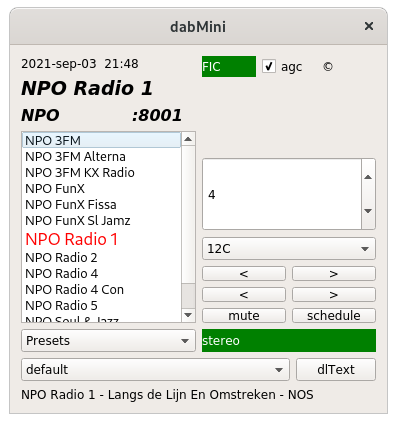
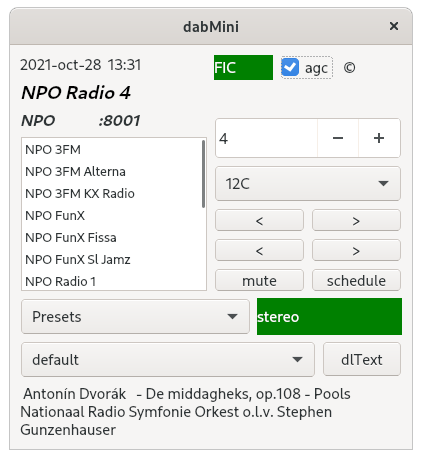
added fib option 0/7

diff --git a/dab-maxi/radio.cpp b/dab-maxi/radio.cpp
@@ -269,6 +269,7 @@ uint8_t	dabBand;
 	my_dabProcessor		= nullptr;
 	isSynced		= false;
 	stereoSetting		= false;
+	serviceCount		= -1;
 //
 //	"globals" is introduced to reduce the number of parameters
 //	for the dabProcessor
@@ -573,13 +574,13 @@ uint8_t	dabBand;
 //	timer for scanning
 	channelTimer. setSingleShot (true);
 	channelTimer. setInterval (10000);
-	connect (&channelTimer, SIGNAL (timeout (void)),
-	         this, SLOT (channel_timeOut (void)));
+	connect (&channelTimer, SIGNAL (timeout ()),
+	         this, SLOT (channel_timeOut ()));
 //
 //	presetTimer
 	presetTimer. setSingleShot (true);
-	connect (&presetTimer, SIGNAL (timeout (void)),
-	            this, SLOT (setPresetStation (void)));
+	connect (&presetTimer, SIGNAL (timeout ()),
+	         this, SLOT (setPresetStation ()));
 //
 //	timer for muting
 	muteTimer. setSingleShot (true);
@@ -867,6 +868,8 @@ int	serviceOrder;
 	}
 
 	ensembleDisplay -> setModel (&model);
+	if (serviceCount == model.rowCount ())
+	   setPresetStation ();
 }
 //
 //	The ensembleId is written as hexadecimal, however, the 
@@ -2677,7 +2680,8 @@ int	switchDelay;
 	   return;
 	}
 
-	nextService. valid = true;
+	nextService. valid		= true;
+	nextService. channel		= channel;
 	nextService. serviceName        = service;
 	nextService. SId                = 0;
 	nextService. SCIds              = 0;
@@ -3059,15 +3063,22 @@ void	RadioInterface::setPresetStation () {
 	if (!running. load ())
 	   return;
 
+	stopScanning (false);
+	fprintf (stderr, "setPresetStation valid ? %d\n", nextService. valid);
+	if (!nextService. valid)
+	   return;
+
+	fprintf (stderr, "setPresetStation channels %s %s\n",
+	                  nextService. channel. toLatin1 (). data (),
+	                  channelSelector -> currentText (). toLatin1 (). data ());
+	if (nextService. channel != channelSelector -> currentText ())
+	   return;
+
 	if (ensembleId -> text () == QString ("")) {
 	   QMessageBox::warning (this, tr ("Warning"),
 	                          tr ("Oops, ensemble not yet recognized\nselect service manually\n"));
 	   return;
 	}
-
-	stopScanning (false);
-	if (!nextService. valid)
-	   return;
 
 	QString presetName	= nextService. serviceName;
 	for (const auto& service: serviceList) {
@@ -3102,6 +3113,7 @@ void	RadioInterface::setPresetStation () {
 void	RadioInterface::startChannel (const QString &channel) {
 int	tunedFrequency	=
 	         theBand. Frequency (channel);
+	serviceCount		= 0;
 	frequencyDisplay	-> display (tunedFrequency / 1000000.0);
 	dabSettings		-> setValue ("channel", channel);
 	inputDevice		-> resetBuffer ();
@@ -4207,4 +4219,7 @@ void	RadioInterface::handle_hideButton	() {
 	}
 }
 
+void	RadioInterface::nrServices	(int n) {
+	serviceCount = n;
+}
 

diff --git a/src/ofdm/fib-decoder.cpp b/src/ofdm/fib-decoder.cpp
@@ -52,6 +52,8 @@
 	         myRadioInterface, SLOT (startAnnouncement (const QString &, int)));
 	connect (this, SIGNAL (stopAnnouncement (const QString &, int)),
 	         myRadioInterface, SLOT (stopAnnouncement (const QString &, int)));
+	connect (this, SIGNAL (nrServices (int)),
+	         myRadioInterface, SLOT (nrServices (int)));
 
 	currentConfig	= new dabConfig();
 	nextConfig	= new dabConfig();
@@ -551,16 +553,14 @@ uint8_t CN_bit          = getBits_1 (d, 8 + 0);
 uint8_t OE_bit          = getBits_1 (d, 8 + 1);
 uint8_t PD_bit          = getBits_1 (d, 8 + 2);
 
-int     nrServices      = getBits_6 (d, used * 8);
+int     serviceCount      = getBits_6 (d, used * 8);
 int     counter         = getBits   (d, used * 8 + 6, 10);
 
 	(void)Length;
 	(void)CN_bit; (void)OE_bit; (void)PD_bit;
-#if 0
-        fprintf (stderr, "nrServices %d, count %d\n",
-                          nrServices, counter);
-#endif
-	(void)nrServices; (void)counter;
+	if (CN_bit == 0)	// only current configuration for now
+	   nrServices (serviceCount);
+	(void)counter;
 }
 
 // FIG0/8:  Service Component Global Definition (6.3.5)

diff --git a/dab-maxi/radio.h b/dab-maxi/radio.h
@@ -230,6 +230,7 @@ private:
 	void			connectGUI		();
 	void			disconnectGUI		();
 
+	int			serviceCount;
 	struct theTime		localTime;
 	struct theTime		UTC;
 	QString			convertTime		(int, int, int, int, int);
@@ -338,6 +339,7 @@ public slots:
 	void			epgTimer_timeOut	();
 #endif
 	void			switchVisibility	(QWidget *);
+	void			nrServices		(int);
 
 //	Somehow, these must be connected to the GUI
 private slots:

diff --git a/dab-mini/radio.h b/dab-mini/radio.h
@@ -196,6 +196,9 @@ public slots:
 	void			newFrame		(int);
 	void			show_clockError		(int);
 	void			scheduler_timeOut	(const QString &);
+	void			nrServices		(int);
+	void			showCorrelation		(int, int,
+	                                                   QVector<int>);
 
 //	Somehow, these must be connected to the GUI
 private slots:

diff --git a/dab-mini/radio.cpp b/dab-mini/radio.cpp
@@ -1489,3 +1489,13 @@ void	RadioInterface::scheduled_dlTextDumping () {
 	   return;
 	dlTextButton		-> setText ("writing");
 }
+
+void	RadioInterface::nrServices	(int nr) {
+	(void)nr;	// todo
+}
+
+void	RadioInterface::showCorrelation (int x1, int x2, QVector<int> x3) {
+	(void)x1; (void)x2; (void)x3;
+}
+
+

diff --git a/includes/ofdm/fib-decoder.h b/includes/ofdm/fib-decoder.h
@@ -170,6 +170,7 @@ signals:
 	void		changeinConfiguration	();
 	void		startAnnouncement	(const QString &, int);
 	void		stopAnnouncement	(const QString &, int);
+	void		nrServices		(int);
 };
 
 #endif

diff --git a/README.md b/README.md
@@ -14,16 +14,16 @@ Table of Contents
 * [Widgets and scopes](#widgets-and-scopes-for-qt-dab)
 * [dabMini and duoreceiver](#dabMini-and-duoreceiver)
 * [Documentation](#documentation)
-* [Presets](#presets-for-qt-dab)
+* [Presets](#presets-for-qt-dab-and-dab-mini)
+* [Saving dain settings](#saving-gain-settings)-
 * [Colors](#colors-for-qt-dab)
-* [Comment on some config settings](#Configuration-settings)
+* [configuration settings](#Configuration-settings)
 * [Scanning and the skip table](#scanning-and-the-skip-table)
 * [Saving synamic label texts](#Saving-dynamic-label-texts)
 * [Scheduling option](#Scheduling-option)
 * [Obsolete properties](#Obsolete-properties)
 * [Installation on Windows](#installation-on-windows)
 * [Installation on Linux x64](#installation-on-linux-x64)
-* [Configuring](#configuring)
 * [Interfacing to another device](#Interfacing-to-another-device)
 * [Using user-specified bands](#Using-user-specified-bands)
 * [xml-files and support](#xml-files-and-support)
@@ -46,7 +46,7 @@ Qt-DAB or dabMini, for Linux-x64 appImages exist for both Qt-DAB and dabMini.
 For Windows installers  are available.
 
 Qt-DAB makes extensive use of a GUI. Personally, grown up in the time of
-ASR-33 terminals and "command lines", I often prefer a simple command line
+ASR-33 terminals and "command lines", I sometimes prefer a simple command line
 over a GUI.
 Therefore, a **terminal-DAB-xxx** version was developed, a
 simpler version, just for listening to a DAB service, making use of the
@@ -55,7 +55,7 @@ command line and curses library.
 For those who are nostalgic to the era and the sound
 of nice wooden radios with glowing tubes,
 Qt-DAB can be configured such that - using the Adalm Pluto as device -
-the audio of a selected service is transmitted in FM stereo on a
+the audio of audio services is transmitted in FM stereo on a
 user specified frequency with the "dynamic label" sent as RDS.
 
 ------------------------------------------------------------------
@@ -108,8 +108,8 @@ Not yet or partly implemented:
 
 Note:
 While the 2.13 support for SDRplay devices is able to handle
-the RSP 1, RSP II, RSP Ia and RSP duo, for handling the RSP-Dx one
-needs 3.0X support
+the RSP 1, RSP II, RSP Ia and RSP duo,
+the 3.0X support handles all SDRplay RSP's.
 
 ------------------------------------------------------------------
 Widgets and scopes for Qt-DAB
@@ -131,18 +131,20 @@ New in 4.11 is a button which determines the visibility of the control buttons.
 The elements in the **left part** of the widget, below the list of services,
  are concerned with selecting a channel and a service. To ease operation the channel selector is augmented with a "-" and a "+" button for selecting the previous resp. next channel.
 
-To ease selection of a service, a second pair of "-" and "+" buttons is available, now for selecting the previous resp. the next service on the list.
+To ease selection of a service, a second pair of "-" and "+" buttons
+is available, now for selecting the previous resp. the next service on the list.
 
 Some general data is displayed on the top right part of the widget, 
-such as run time and current time, frequency offset and (overall) processor load.
+such as run time and current time,
+frequency offset and (overall) processor load (note that the "current time"
+is extracted from the DAB data, playing a recorded transmission shows the
+time of the transmission).
 
 In the middle part, name of the ensemble and name of the selected service
 are displayed, complemented with the text of the dynamic label.
 
 Some data on the selected service - if any - can be found on
 a separate widget, the "Technical Data" widget (*Detail* button).
-This widget will show where the data for the
-service is to be found in the DAB frames, and how it is encoded.
 
 ![Qt-DAB main widget](/qt-dab-technical-widget.png?raw=true)
 
@@ -239,8 +241,8 @@ Storing gain settings
 It is often the case that, for a particular device the optimal gain setting
 for channel X is not the same as for channel Y (assuming X != Y).
 This is especially annoying during scanning. Therefore, 
-the gain settings for each channel are recorded and used whenever
-that channel is selected.
+for each device, the gain settings for each channel are recorded
+and used whenever that channel is selected.
 
 ----------------------------------------------------------------------
 Colors for Qt-DAB
@@ -271,7 +273,7 @@ Many settings are maintained between program invocations in a
 so-called ".ini" file, ususally "qt-dab.ini", stored in the home directory.
 A complete description of the settings can be found in the user's manual
 (in the subdirectory *docs*).
-Touching the **config*( button on the main widget will show (or hide)
+Touching the **config** button on the main widget will show (or hide)
 a widget where a number of settings can be adapted.
 
 ----------------------------------------------------------------------
@@ -301,7 +303,7 @@ If one cancels the file selection, the default skipTable will be used,
 the same table that is used when no skipFile is selected.
 
 ----------------------------------------------------------------------
-# Saving dynamic label texts
+Saving dynamic label texts
 ----------------------------------------------------------------------
 
 Based on user requests an option is implemented to store the texts as
@@ -318,7 +320,7 @@ The texts are preceded with a time indication and a service name.
 Endless repetitions are avoided in the saved text.
 
 -----------------------------------------------------------------------
-# Scheduling option
+Scheduling option
 -----------------------------------------------------------------------
 
 The "alarm" facility is replaced by a more general *scheduling* facility.
@@ -408,18 +410,11 @@ For the dabMini, an appImage is available for use on an x64 based
 Linux system, and the user's manual contains a complete
 script, tested on an RPI 2 and 3.
 
-**dab-2** is experimental and **not** supported
+**dab-2** is experimental and **NOT** supported
 
 Note that Linux allows connecting both the "pulse" and "pipewire"
 subsystem to bluetooth, making it easy to listen using a bluetooth
 connected soundbar or bluetooth connected ear- or headphomes.
-
-----------------------------------------------------------------------
-Configuring 
-----------------------------------------------------------------------
-
-The  user's guide contains a detailed description of the configuration
-options (mainly choices for including or excluding a device).
 
 -----------------------------------------------------------------------
 Interfacing to another SDR device
@@ -560,7 +555,7 @@ The picture shows the variations in the SNR when moving the antenna
 and - the dip - when switching antennas.
 
 -----------------------------------------------------------------------
-# Pluto device and stereo FM transmission
+Pluto device and stereo FM transmission
 -----------------------------------------------------------------------
 
 As (probably) known, the **Adalm Pluto** device has receive and transmit
@@ -592,7 +587,7 @@ on the given frequency (specified in KHz)
 ![dab2fm](/dab2fm.png?raw=true)
 
 -----------------------------------------------------------------------
-# Copyright
+Copyright
 ------------------------------------------------------------------------
 
 	Copyright (C)  2016 .. 2021
